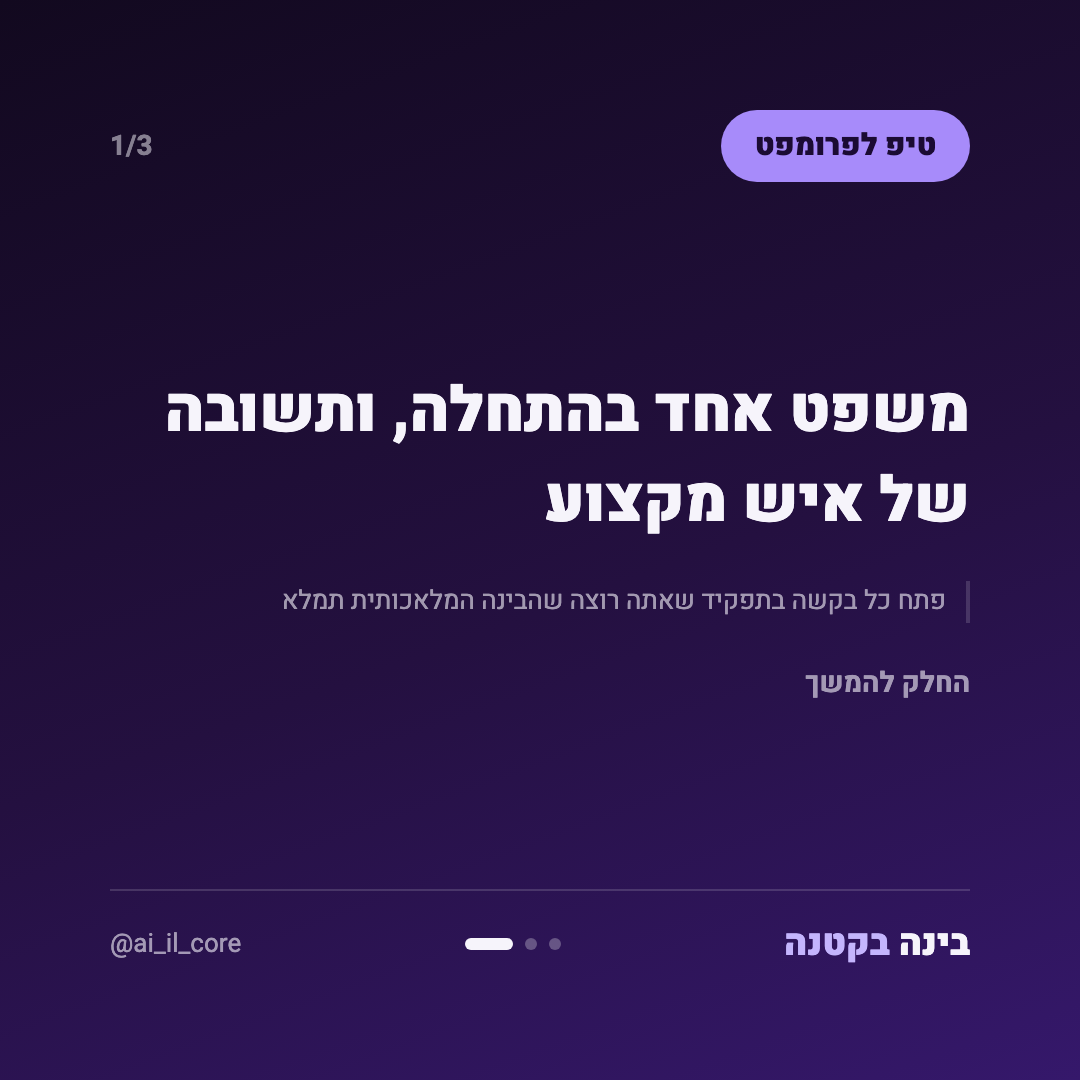
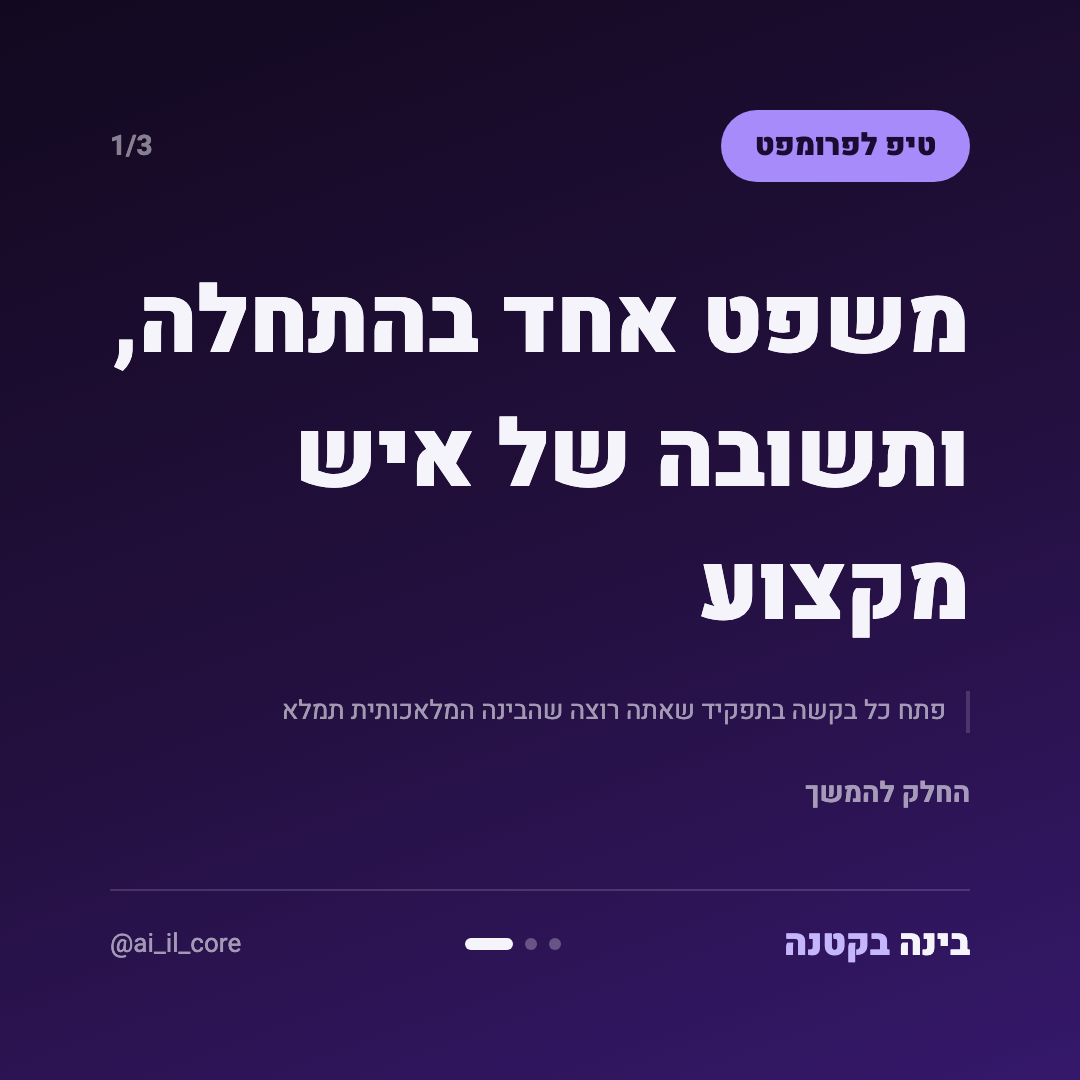
Items 16 and 42 on the Hebrew account: follow line on one slot in five, larger hook type

Changed region(s): [[0.0917, 0.2444, 0.9167, 0.4889], [0.2444, 0.5194, 0.9167, 0.6722], [0.7333, 0.7028, 0.8861, 0.7639]]

diff --git a/generate.py b/generate.py
@@ -878,6 +878,20 @@ def channel_teasers(now=None, days=7):
     return plain or found
 
 
+# Item 16, ported from the stock account 31.10.2026. One post in five asks for
+# the follow and says what following gets you. Every post would read as needy;
+# never asking leaves the one action that compounds unasked. Keyed on the slot
+# time so a rebuild gives the same answer, counted in half-days (10:00 and
+# 17:00 UTC are the two slots) so it lands on one slot in five.
+FOLLOW_CTA = "👋 חדשים פה? עקבו אחרי @ai_il_core: AI בעברית, כל יום ובלי ז'רגון."
+
+
+def wants_follow_line(slot):
+    if slot is None:
+        return False
+    return (slot.toordinal() * 2 + (slot.hour >= 15)) % 5 == 0
+
+
 def channel_cta(slot=None):
     teasers = channel_teasers()
     if not teasers:
@@ -889,6 +903,7 @@ def channel_cta(slot=None):
 
 def make_caption(category, copy, slot=None):
     tag = CATEGORY_META[category]["tag"]
+    follow_line = f"{FOLLOW_CTA}\n" if wants_follow_line(slot) else ""
     # The model sometimes returns the brand tag itself, spelled with
     # underscores (#בינה_בקטנה), which shipped next to our own #בינהבקטנה and
     # read as a typo. Compare tags ignoring underscores and keep the first.
@@ -922,6 +937,7 @@ def make_caption(category, copy, slot=None):
         f"{copy['explain']}\n\n"
         f"{copy['takeaway']}\n\n"
         f"{copy['question']}\n\n"
+        f"{follow_line}"
         f"{channel_cta(slot)}\n\n"
         f"{tag}\n"
         f"{tags}"
@@ -1049,7 +1065,12 @@ def _fit(text, steps):
     return steps[-1][1]
 
 
-_HOOK_STEPS = [(45, 62), (70, 54), (95, 46), (130, 40)]
+# Item 42, 31.10.2026: raised from 62/54/46/40. Most impressions are a
+# thumbnail about 150px wide, where 62px came out under 9px tall. Hooks run 30
+# to 50 characters, so the top three tiers do the work; checked against the
+# worst case (45 characters at 92px with a 140-character source line), which
+# still clears the footer.
+_HOOK_STEPS = [(35, 100), (45, 92), (55, 84), (70, 72), (95, 58), (130, 46)]
 # Retuned 4.10.2026 alongside the panel. These were sized for weight-900 text
 # sitting directly on the background, where a large size was the only thing
 # giving the slide any presence. Inside the panel, at weight 400 with a 1.8
